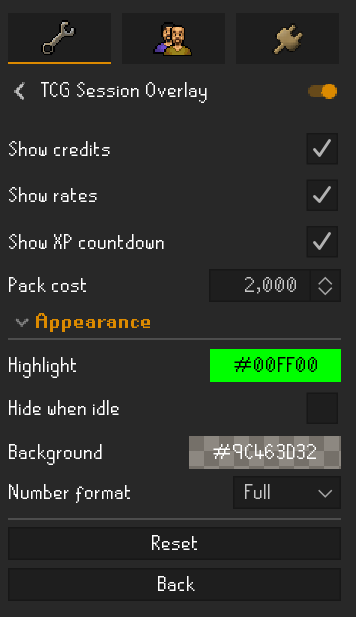
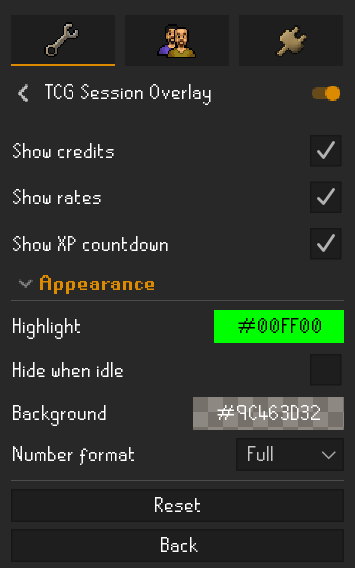
TCG Updated the settings screenshot

diff --git a/README.md b/README.md
@@ -43,7 +43,7 @@ XP does not earn credits.
 
 ## Settings
 
-<img src="docs/settings.png" alt="The plugin settings panel with the Appearance section expanded" width="356">
+<img src="docs/settings.png" alt="The plugin settings panel with the Appearance section expanded" width="355">
 
 | Setting | What it does |
 | --- | --- |
